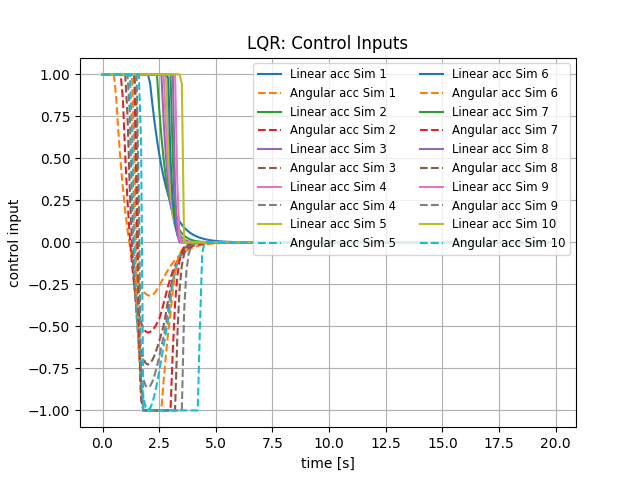
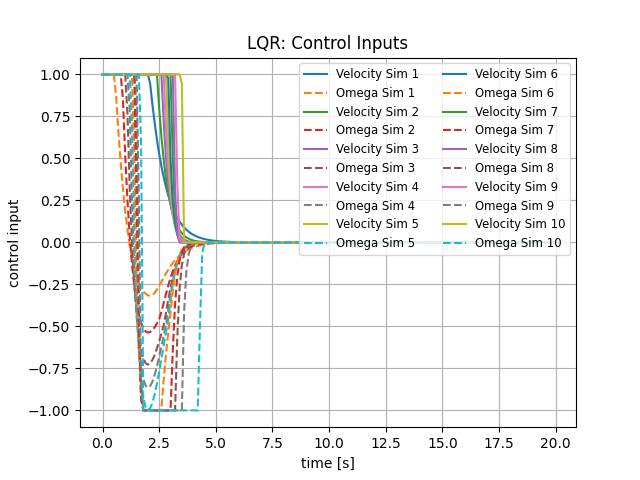
Corrected a mistake

Changed region(s): [[0.375, 0.125, 0.875, 0.5312]]

diff --git a/PRESET_3wrobot_NI.py b/PRESET_3wrobot_NI.py
@@ -176,8 +176,8 @@ def run_lqr(dt, Tfinal, x0, x_goal):
         # Control inputs plot
     plt.figure()
     for i, U in enumerate(all_U, start=1):
-        plt.plot(t_vec[:-1], U[:,0], label=f"Linear acc Sim {i}")
-        plt.plot(t_vec[:-1], U[:,1], '--', label=f"Angular acc Sim {i}")
+        plt.plot(t_vec[:-1], U[:,0], label=f"Velocity Sim {i}")
+        plt.plot(t_vec[:-1], U[:,1], '--', label=f"Omega Sim {i}")
     plt.title("LQR: Control Inputs")
     plt.xlabel("time [s]")
     plt.ylabel("control input")
